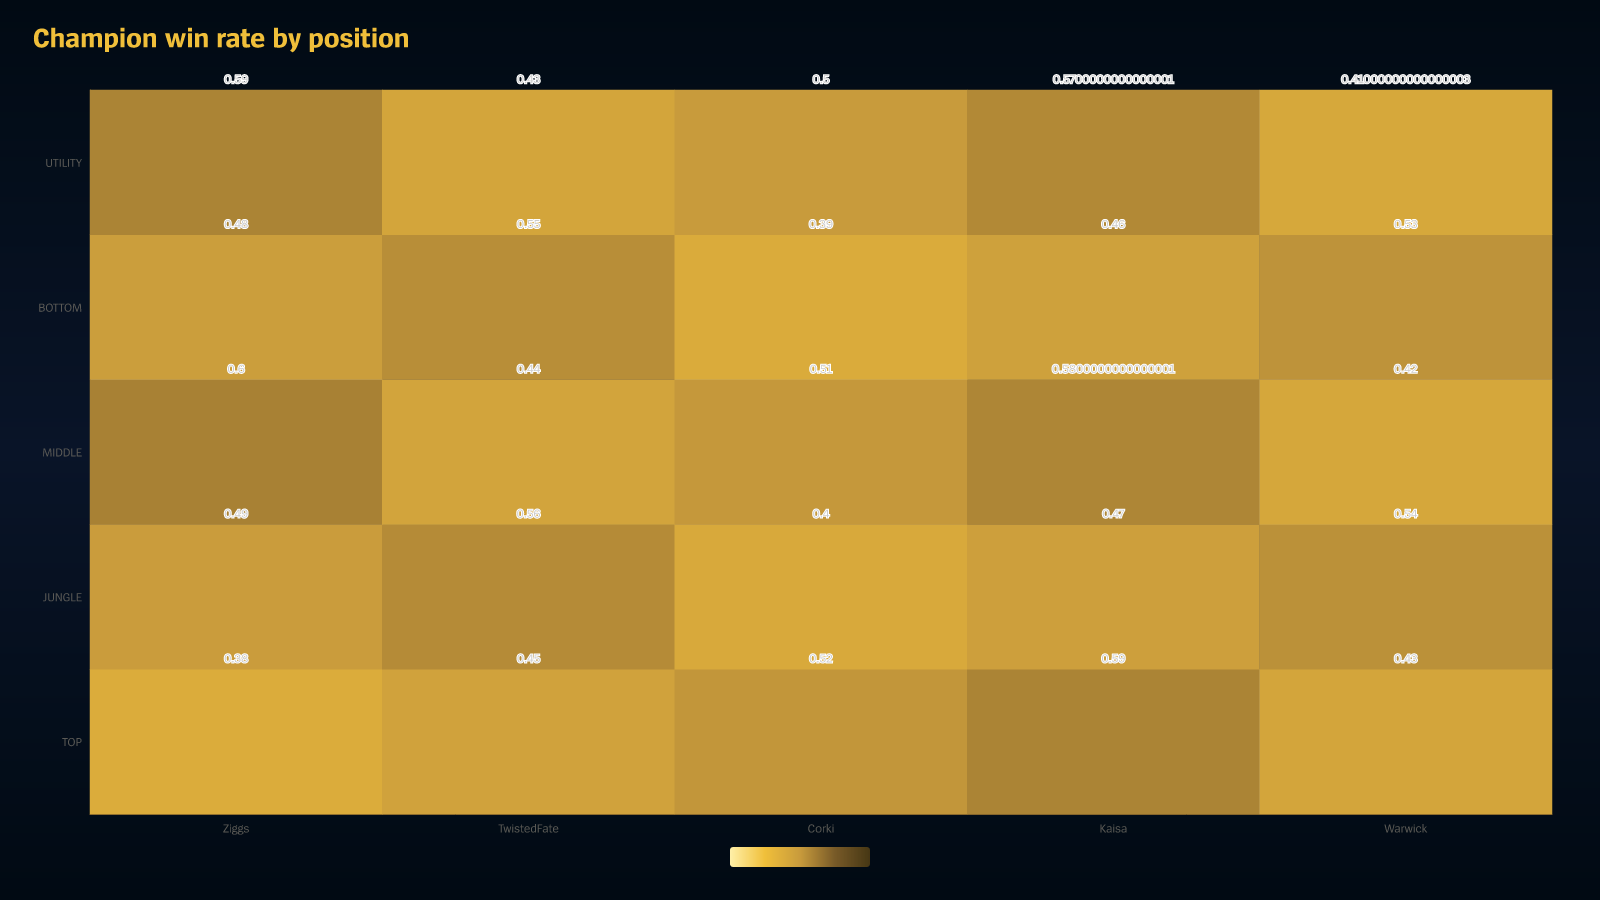
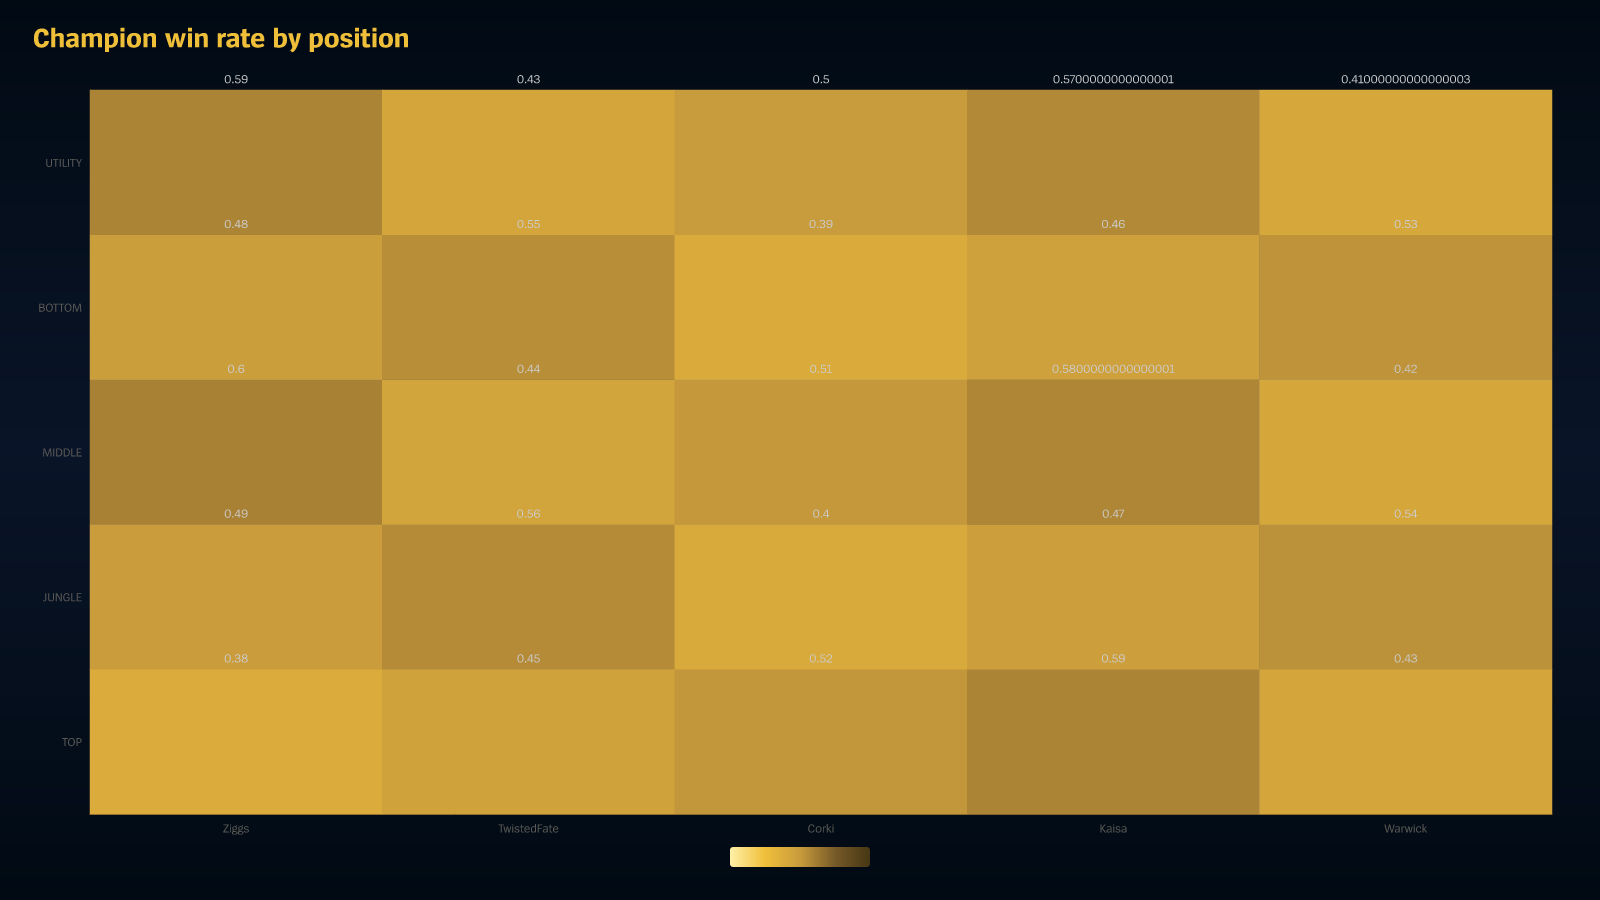
fix(scout-for-lol): restore verification gates
Why:
Keep the PR's exact-head verification green without weakening duplicate-detection or generated-asset checks.

What:
- Share guild analytics lifecycle handling between workspace routes.
- Extract the repeated complete-answer test fixture and refresh its jscpd baseline.
- Regenerate the checked-in heatmap render sample.

Verification:
- bun run jscpd
- bunx lefthook run pre-commit
- focused Scout backend and app checks passed

diff --git a/packages/scout-for-lol/packages/backend/src/explore/http-route.e2e.test.ts b/packages/scout-for-lol/packages/backend/src/explore/http-route.e2e.test.ts
@@ -315,6 +315,28 @@ async function seedQuestion(): Promise<{
   return { conversationId: conversation.id, questionId: question.id };
 }
 
+async function appendCompleteAnswer(input: {
+  conversationId: string;
+  parentMessageId: string;
+}) {
+  return await appendExploreAnswer(trpc.prisma, {
+    conversationId: input.conversationId,
+    parentMessageId: input.parentMessageId,
+    answer: {
+      answer: "A late complete answer",
+      title: null,
+      queryText: null,
+      includeVisualization: false,
+      caveats: [],
+      followUps: [],
+    },
+    preview: null,
+    visualization: null,
+    trace: [],
+    expectedCurrentLeafId: null,
+  });
+}
+
 describe("explore salvage", () => {
   test("a stop before prose salvages nothing", async () => {
     const seeded = await seedQuestion();
@@ -392,21 +414,9 @@ describe("explore salvage", () => {
 
   test("cancellation during persistence replaces the answer instead of adding a sibling", async () => {
     const seeded = await seedQuestion();
-    const persisted = await appendExploreAnswer(trpc.prisma, {
+    const persisted = await appendCompleteAnswer({
       conversationId: seeded.conversationId,
       parentMessageId: seeded.questionId,
-      answer: {
-        answer: "A late complete answer",
-        title: null,
-        queryText: null,
-        includeVisualization: false,
-        caveats: [],
-        followUps: [],
-      },
-      preview: null,
-      visualization: null,
-      trace: [],
-      expectedCurrentLeafId: null,
     });
 
     const salvaged = await persistPartialAnswer(trpc.prisma, {
@@ -427,21 +437,9 @@ describe("explore salvage", () => {
 
   test("cancellation during persistence removes an answer when no prose streamed", async () => {
     const seeded = await seedQuestion();
-    const persisted = await appendExploreAnswer(trpc.prisma, {
+    const persisted = await appendCompleteAnswer({
       conversationId: seeded.conversationId,
       parentMessageId: seeded.questionId,
-      answer: {
-        answer: "A late complete answer",
-        title: null,
-        queryText: null,
-        includeVisualization: false,
-        caveats: [],
-        followUps: [],
-      },
-      preview: null,
-      visualization: null,
-      trace: [],
-      expectedCurrentLeafId: null,
     });
 
     const salvaged = await persistPartialAnswer(trpc.prisma, {

diff --git a/packages/scout-for-lol/packages/app/src/routes/guild-workspace.tsx b/packages/scout-for-lol/packages/app/src/routes/guild-workspace.tsx
@@ -1,14 +1,9 @@
 import { Loaded } from "@shepherdjerred/loaded";
 import { Link, Navigate, Outlet, useLocation, useParams } from "react-router";
 import { useQuery } from "@tanstack/react-query";
-import { Suspense, useEffect, type ReactNode } from "react";
+import { Suspense, type ReactNode } from "react";
 import { SectionSkeleton } from "#src/components/section-skeleton.tsx";
 import type { Permission } from "@scout-for-lol/data";
-import {
-  analyticsContextRoute,
-  clearGuildContext,
-  resolveGuildContext,
-} from "#src/lib/analytics.ts";
 import { useTRPC } from "#src/lib/trpc.ts";
 import { usePermissions } from "#src/hooks/use-permissions.ts";
 import {
@@ -16,9 +11,11 @@ import {
   permissionLabel,
 } from "#src/components/forbidden-panel.tsx";
 import { ErrorPanel } from "#src/components/route-error-panel.tsx";
+import { useGuildAnalyticsContext } from "#src/hooks/use-guild-analytics-context.ts";
 import { permissionsForGuildActionRoute } from "#src/lib/guild-route-permissions.ts";
 import { STALE_TIME_SLOW_LIST } from "#src/lib/stale-times.ts";
 import { GUILD_NAVIGATION_ITEMS } from "#src/lib/app-navigation.ts";
+import { analyticsContextRoute } from "#src/lib/analytics.ts";
 
 export function GuildWorkspace() {
   const { guildId } = useParams();
@@ -52,14 +49,11 @@ export function GuildWorkspace() {
   // no replacement pageview is ever sent, and that entry event is the
   // installation-to-guild signal the whole join exists for.
   const contextRoute = analyticsContextRoute(location.pathname);
-  const analyticsGuildId = hasAccess ? guildId : undefined;
-  useEffect(() => {
-    if (contextRoute === undefined || access.status === "loading") return;
-    resolveGuildContext(contextRoute, analyticsGuildId);
-    return () => {
-      clearGuildContext();
-    };
-  }, [contextRoute, access.status, analyticsGuildId]);
+  useGuildAnalyticsContext({
+    contextRoute,
+    loading: access.status === "loading",
+    guildId: hasAccess ? guildId : undefined,
+  });
 
   if (guildId === undefined) {
     return (

diff --git a/packages/scout-for-lol/packages/app/src/routes/consumer-workspace.tsx b/packages/scout-for-lol/packages/app/src/routes/consumer-workspace.tsx
@@ -1,13 +1,9 @@
-import { useEffect } from "react";
 import { Loaded } from "@shepherdjerred/loaded";
 import { Outlet, useLocation, useParams } from "react-router";
 import { ForbiddenPanel } from "#src/components/forbidden-panel.tsx";
+import { useGuildAnalyticsContext } from "#src/hooks/use-guild-analytics-context.ts";
 import { usePermissions } from "#src/hooks/use-permissions.ts";
-import {
-  analyticsContextRoute,
-  clearGuildContext,
-  resolveGuildContext,
-} from "#src/lib/analytics.ts";
+import { analyticsContextRoute } from "#src/lib/analytics.ts";
 
 export function ConsumerWorkspace() {
   return <Outlet />;
@@ -19,18 +15,13 @@ export function ConsumerGuildWorkspace() {
   const { access } = usePermissions(guildId);
   const contextRoute = analyticsContextRoute(location.pathname);
 
-  // `guildId` is an unvalidated route param until the permission bootstrap
-  // resolves, so the guild super property is only registered once the server
-  // has confirmed the guild — otherwise any signed-in visitor could deep-link
-  // `/c/<anything>` and stamp an arbitrary value onto every subsequent event.
-  const analyticsGuildId = access.status === "done" ? guildId : undefined;
-  useEffect(() => {
-    if (contextRoute === undefined || access.status === "loading") return;
-    resolveGuildContext(contextRoute, analyticsGuildId);
-    return () => {
-      clearGuildContext();
-    };
-  }, [contextRoute, access.status, analyticsGuildId]);
+  // `guildId` is unvalidated until the permission bootstrap resolves, so the
+  // shared hook only registers the confirmed guild on analytics events.
+  useGuildAnalyticsContext({
+    contextRoute,
+    loading: access.status === "loading",
+    guildId: access.status === "done" ? guildId : undefined,
+  });
 
   if (guildId === undefined) {
     return (

diff --git a/packages/scout-for-lol/packages/app/src/hooks/use-guild-analytics-context.ts b/packages/scout-for-lol/packages/app/src/hooks/use-guild-analytics-context.ts
@@ -1,0 +1,16 @@
+import { useEffect } from "react";
+import { clearGuildContext, resolveGuildContext } from "#src/lib/analytics.ts";
+
+export function useGuildAnalyticsContext(input: {
+  contextRoute: string | undefined;
+  loading: boolean;
+  guildId: string | undefined;
+}): void {
+  useEffect(() => {
+    if (input.contextRoute === undefined || input.loading) return;
+    resolveGuildContext(input.contextRoute, input.guildId);
+    return () => {
+      clearGuildContext();
+    };
+  }, [input.contextRoute, input.loading, input.guildId]);
+}
